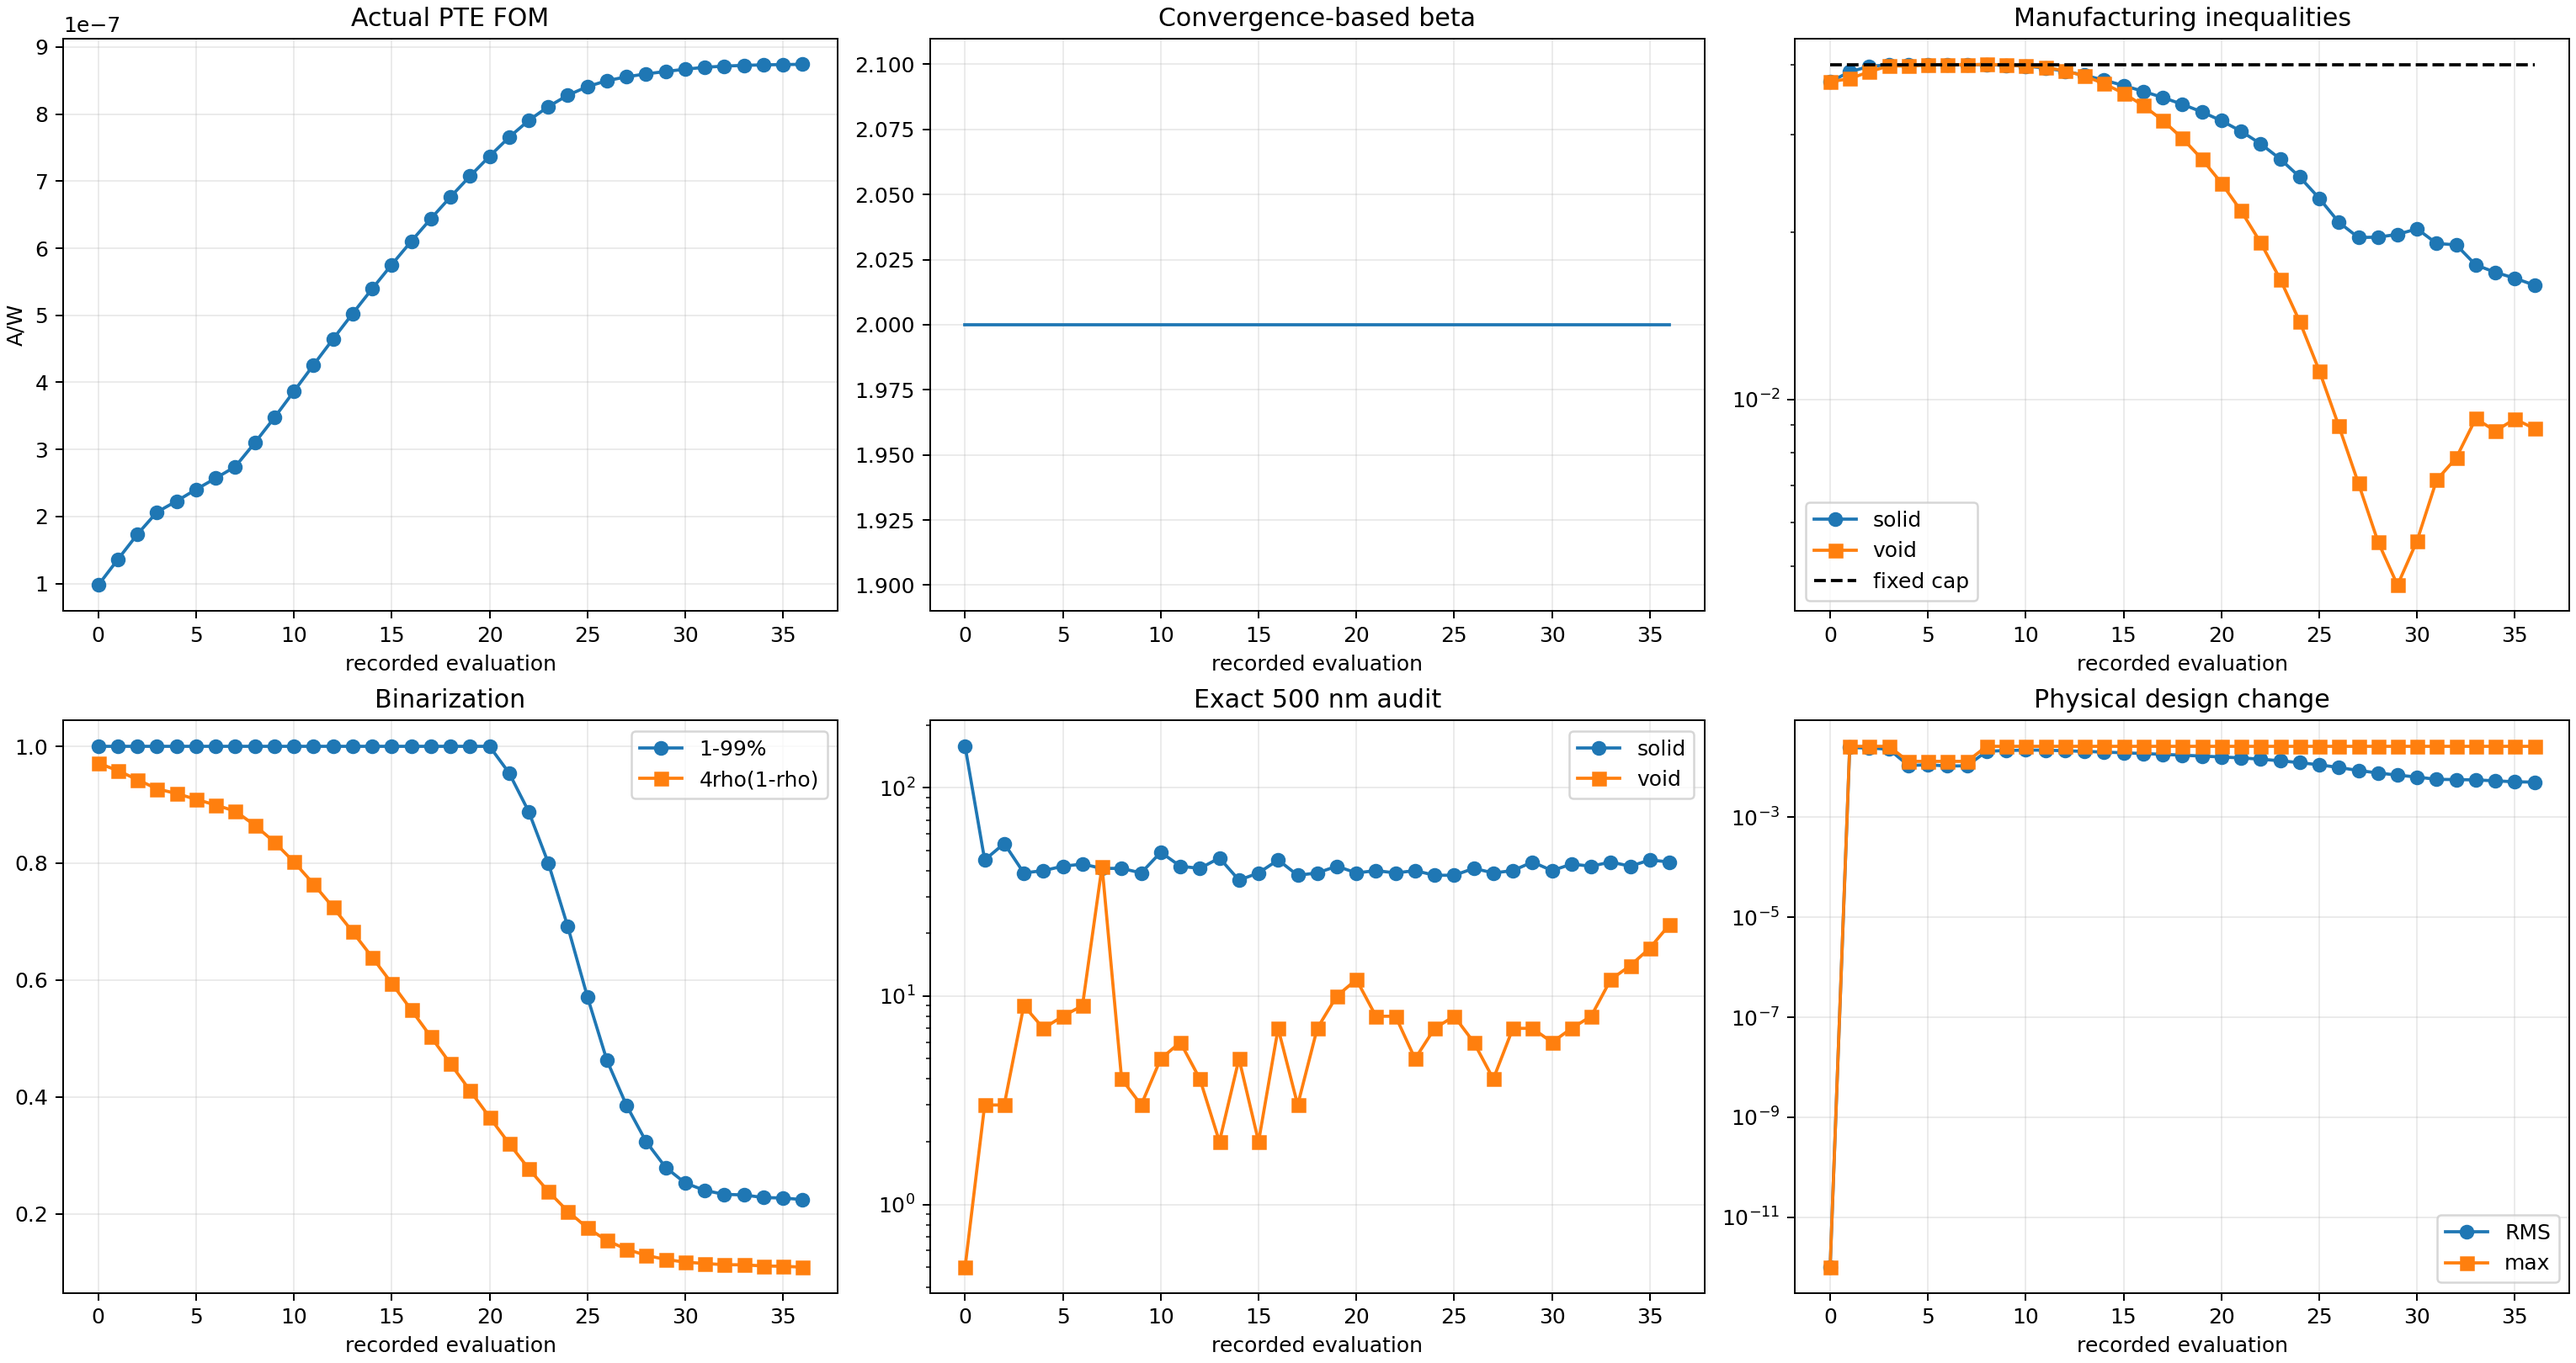
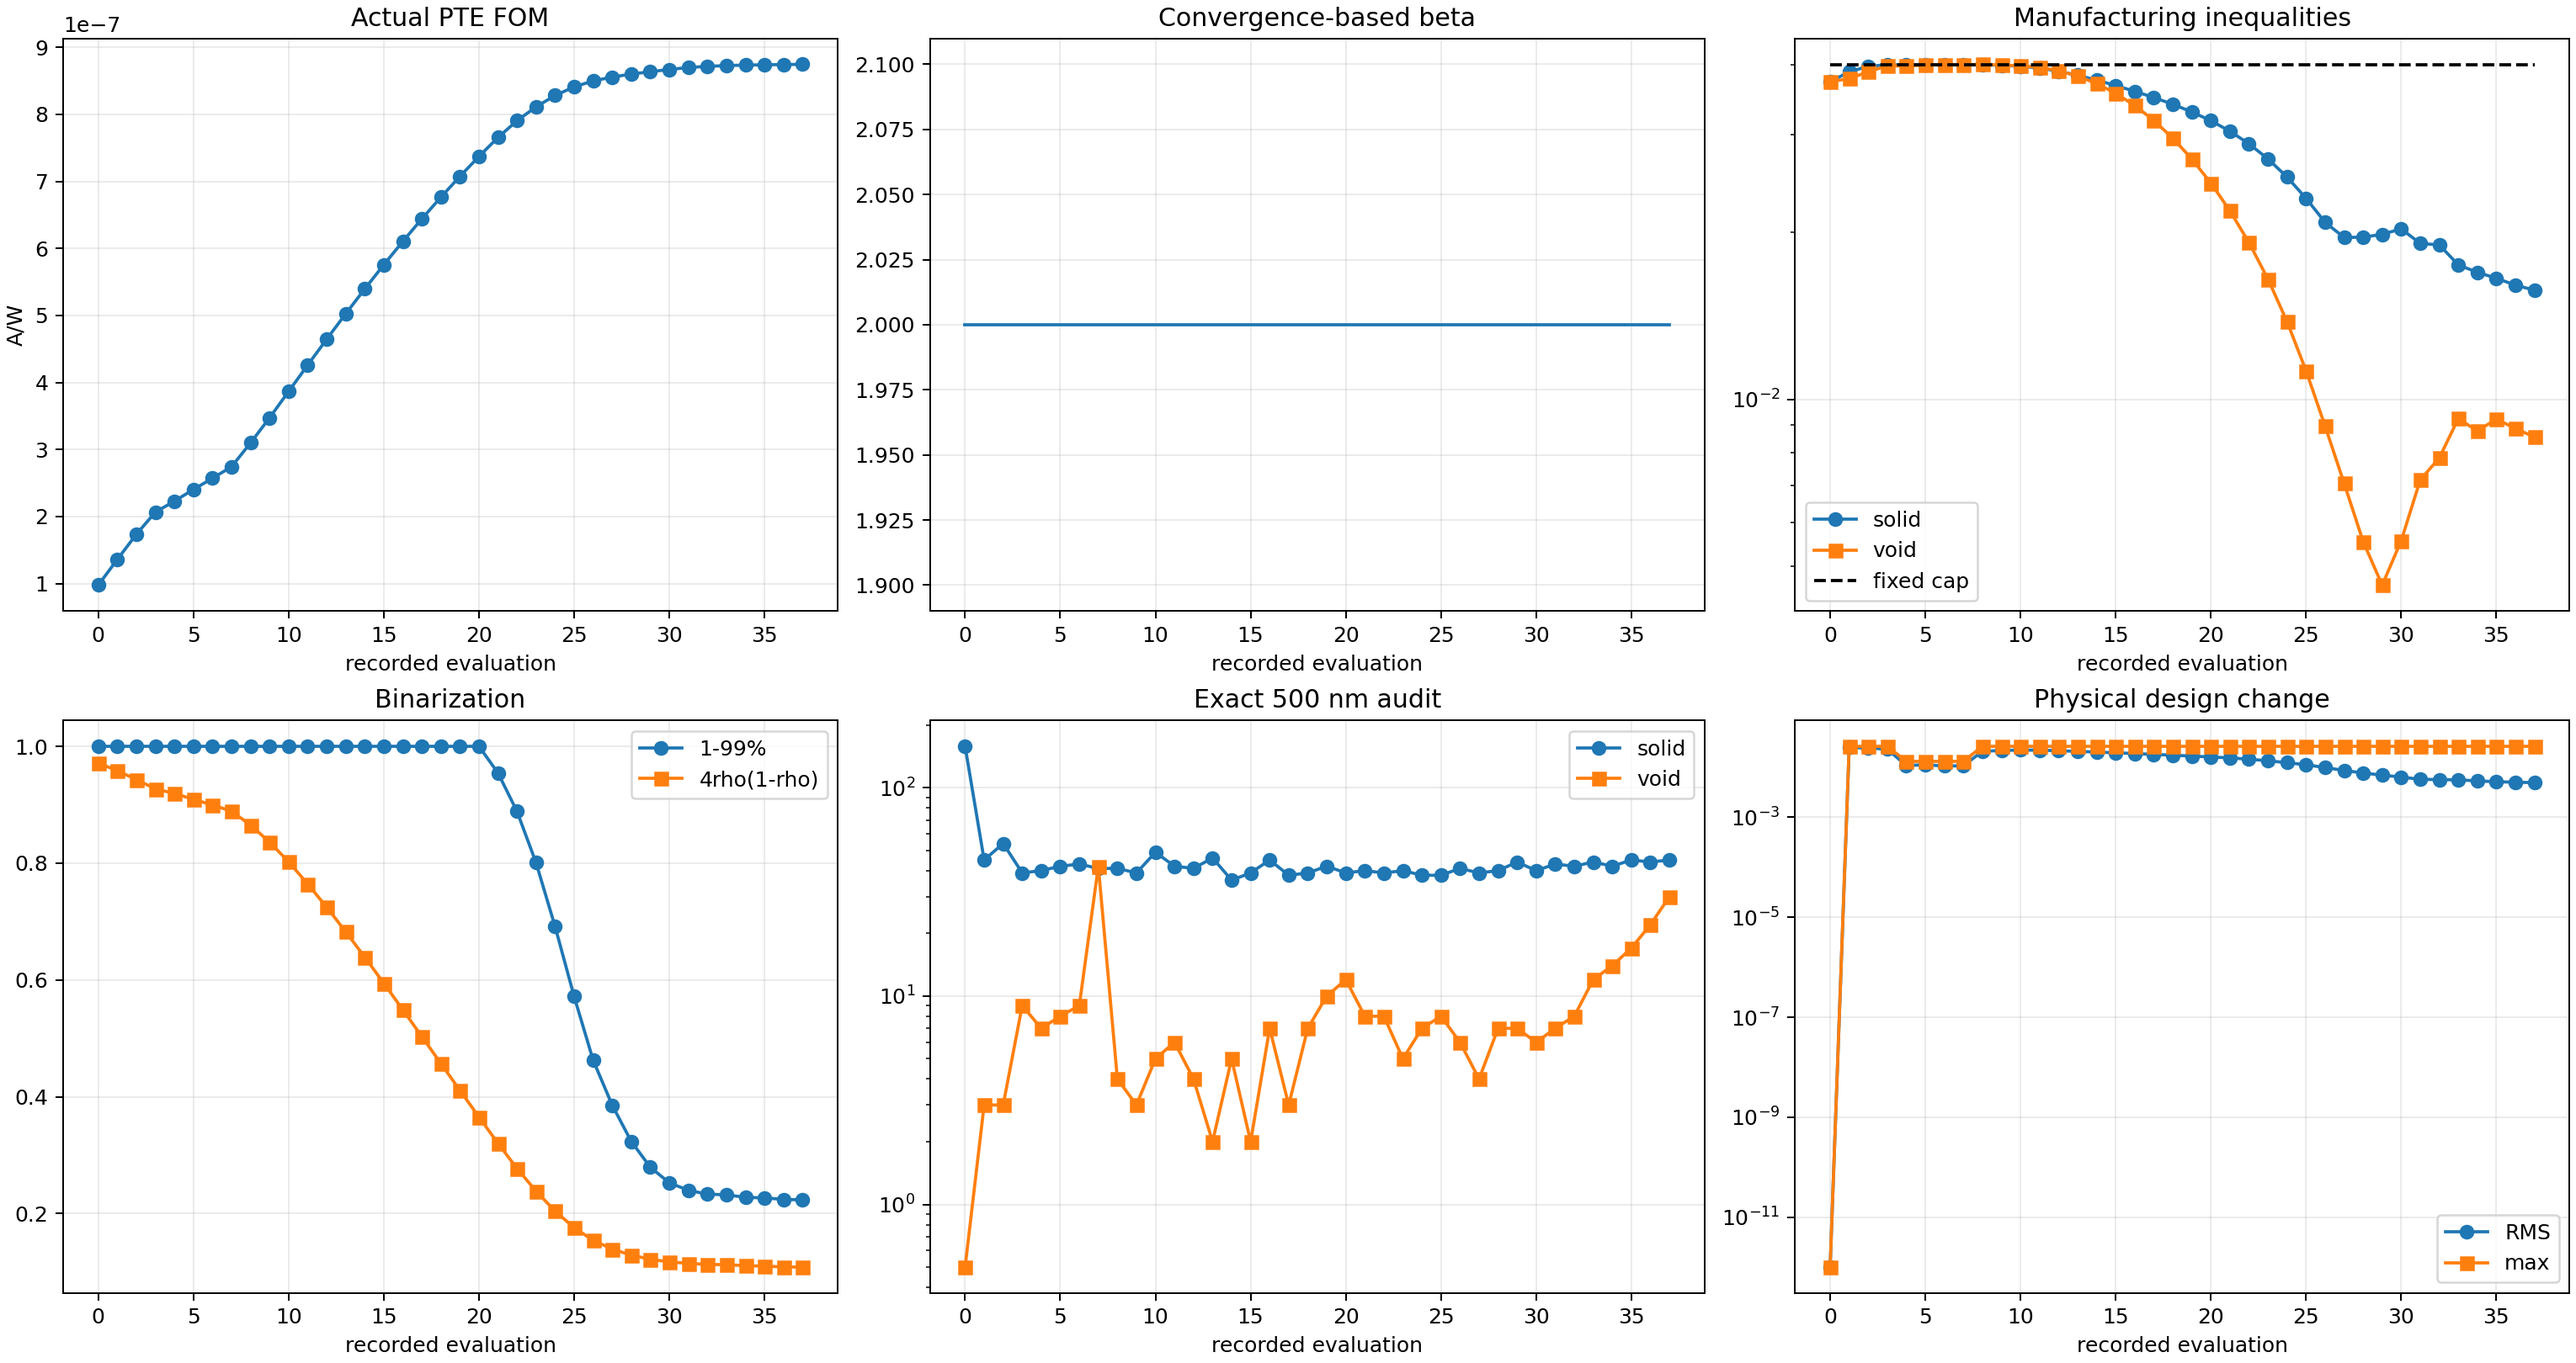
Record Run 003 run003_b002_s037_g037_accepted_mma

diff --git a/photothermal_pte/optimization_runs/run_003_gaussian10_w8p5_current_max_converged/results/OPTIMIZATION_REPORT.md b/photothermal_pte/optimization_runs/run_003_gaussian10_w8p5_current_max_converged/results/OPTIMIZATION_REPORT.md
@@ -2,10 +2,10 @@
 
 Status: `RUNNING_CONVERGENCE_BASED_CONSTRAINED_BETA_CONTINUATION`
 
-Current stage: beta=2, accepted stage iteration=36, global iteration=36.
+Current stage: beta=2, accepted stage iteration=37, global iteration=37.
 
-Actual FOM: `8.741414136785e-07 A/W`. Fixed-cap solid/void constraints: `1.605236e-02` / `8.854183e-03` with cap `4.000000e-02`.
+Actual FOM: `8.744964123682e-07 A/W`. Fixed-cap solid/void constraints: `1.572311e-02` / `8.548116e-03` with cap `4.000000e-02`.
 
-Exact 500 nm bad cells: solid `44`, void `22`. Stage convergence: `False` (recent FOM/density changes have not plateaued).
+Exact 500 nm bad cells: solid `45`, void `30`. Stage convergence: `False` (recent FOM/density changes have not plateaued).
 
 Beta is promoted only after fixed-inequality feasibility and a four-update FOM/design plateau; it is never promoted after one nominal update.
